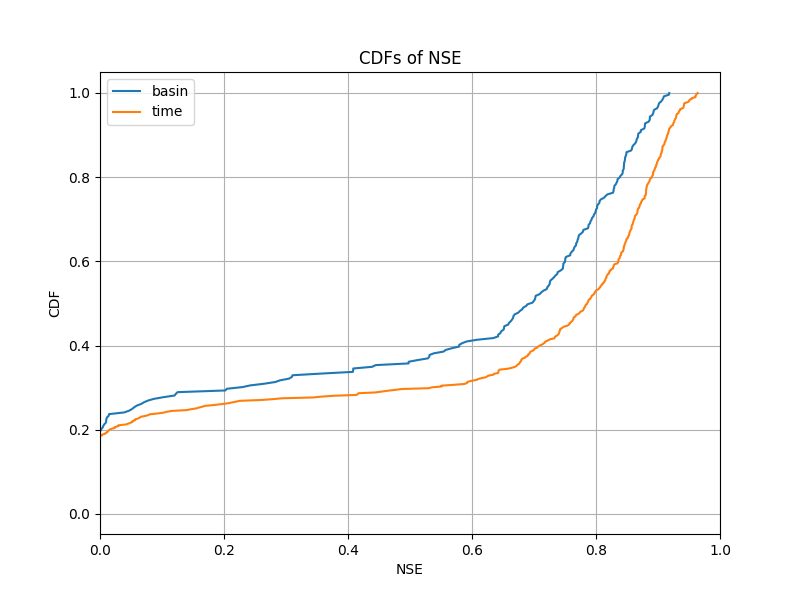
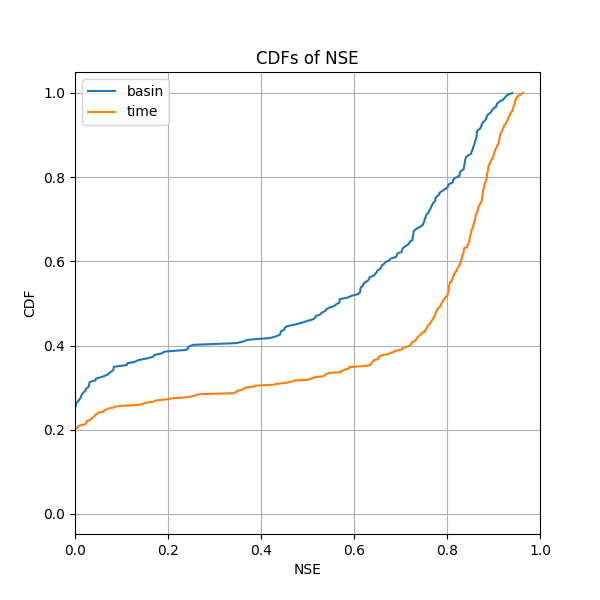
Square shape plot

diff --git a/examples/lorenz96_Fdim/lorenz96_task.py b/examples/lorenz96_Fdim/lorenz96_task.py
@@ -159,7 +159,7 @@ if __name__ == '__main__':
         sorted_NSE_splits.append(test_NSE)
         cdf_splits.append(cdf_series.tolist())
 
-    plt.figure(figsize=(8, 6))
+    plt.figure(figsize=(6, 6))
     plt.plot(sorted_NSE_splits[0], cdf_splits[0], label=split_vals[0])
     plt.plot(sorted_NSE_splits[1], cdf_splits[1], label=split_vals[1])
     plt.xlabel('NSE')
@@ -170,4 +170,3 @@ if __name__ == '__main__':
     plt.legend()
 
     plt.savefig(f'plots/NNSE/NSE_CDFs.png')
-    plt.show()
